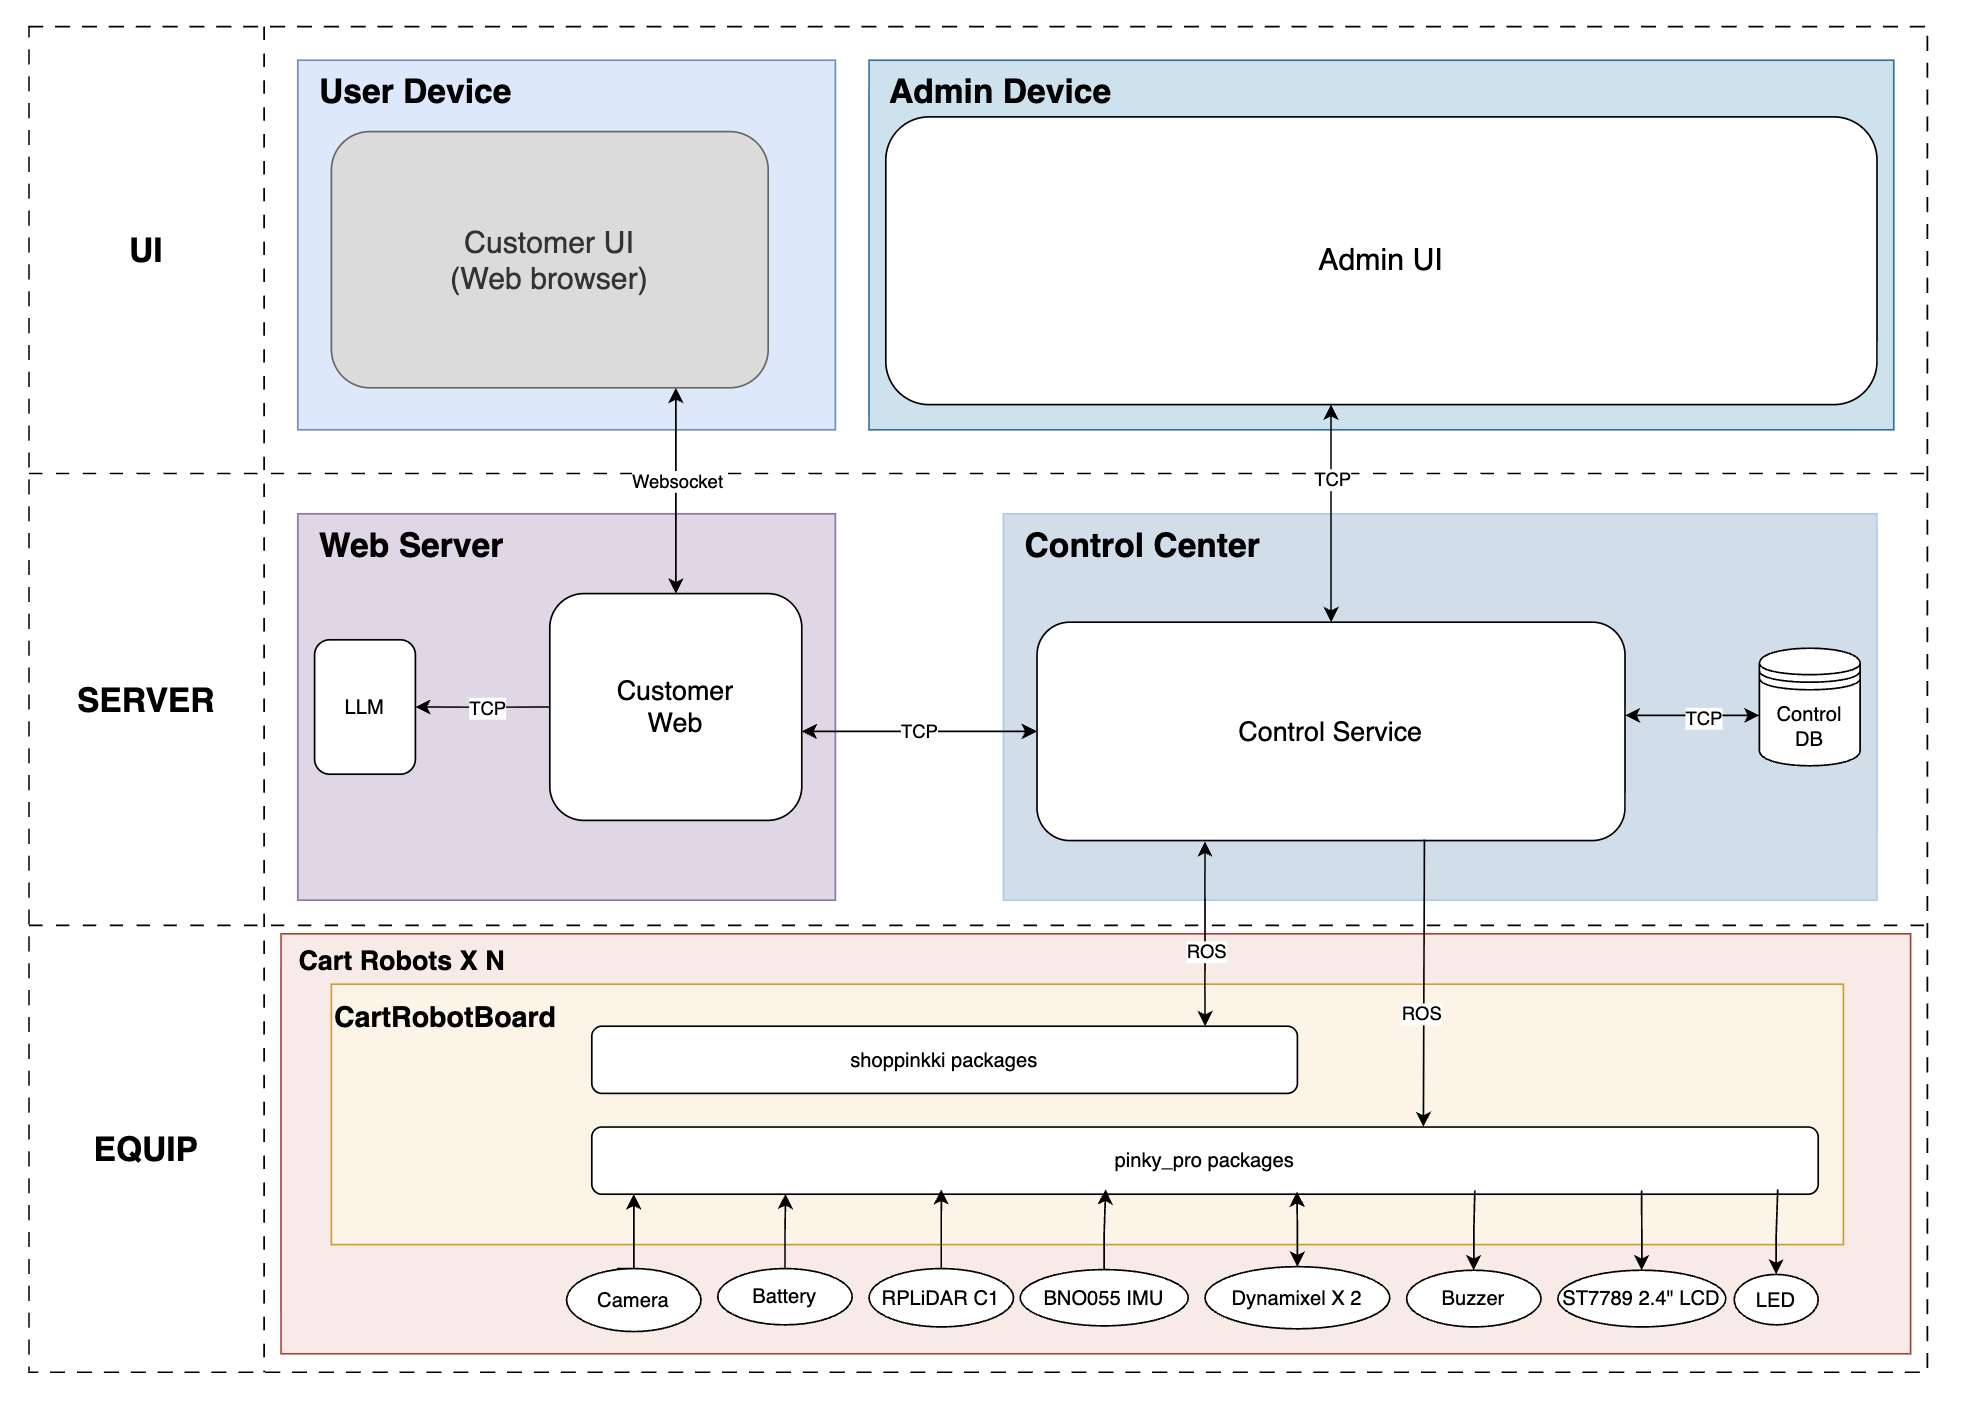
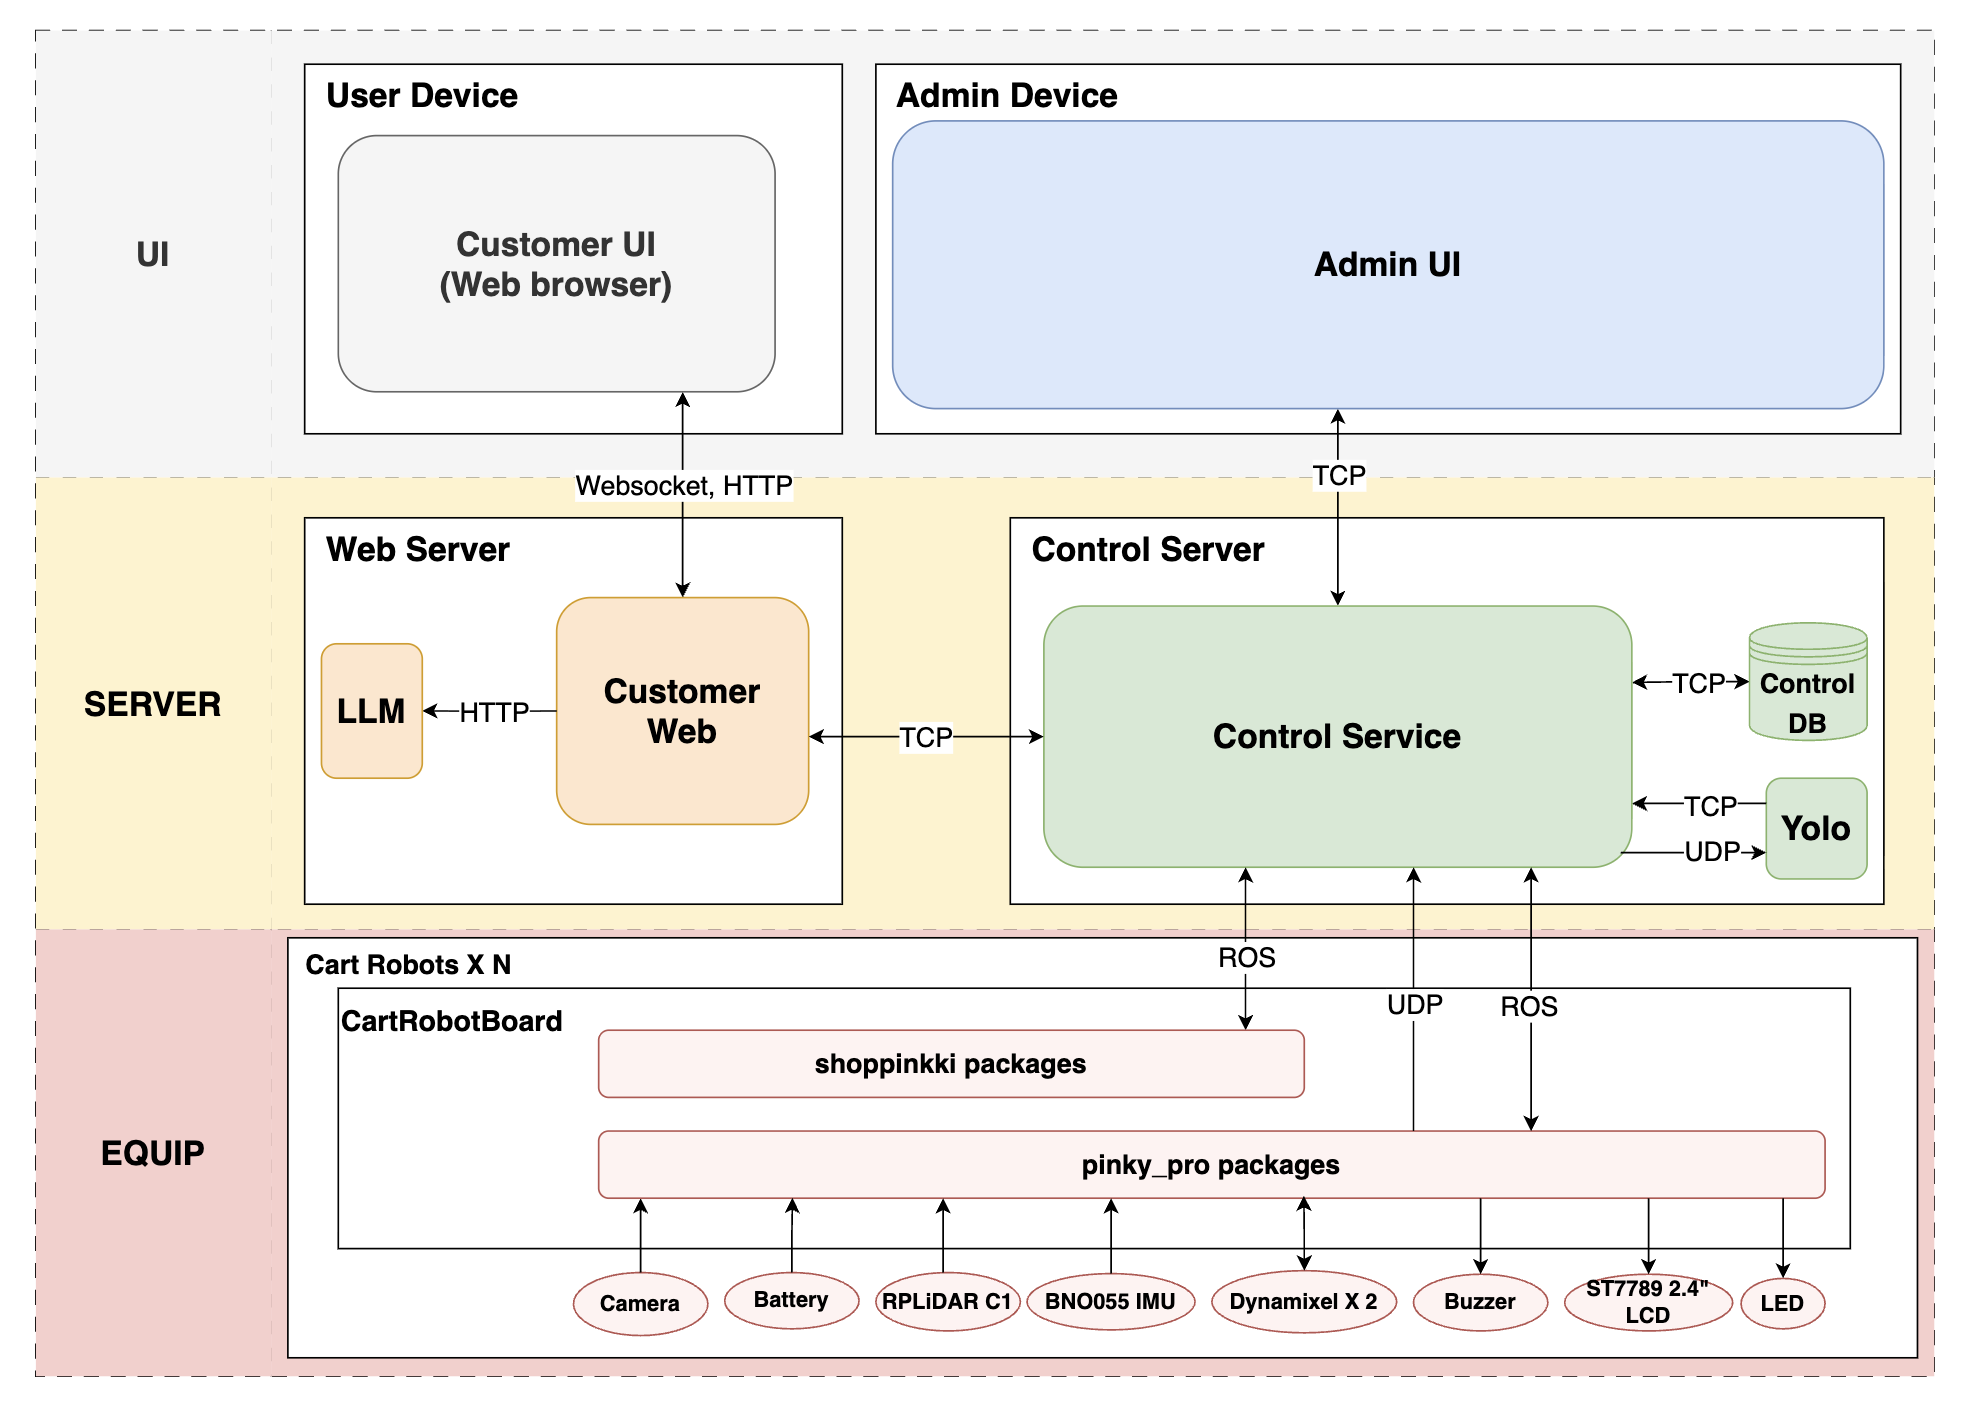
chore: readme update

diff --git a/README.md b/README.md
@@ -2,46 +2,71 @@
 
 > **에드인에듀 자율주행 프로젝트 2팀 | 팀명: 삥끼랩**
 
-Pinky Pro 로봇을 활용한 미니어처 마트 스마트 카트 데모 프로젝트.
-고객이 스마트폰으로 로봇에 등록하면, 쑈삥끼가 마트 안에서 고객을 인식하고 따라다니며 쇼핑을 보조합니다.
+Pinky Pro 로봇 기반 미니어처 마트 스마트 카트.
+고객을 인식하고 따라다니며, 상품을 검색·안내하고, 결제·복귀까지 자동으로 처리합니다.
 
 ---
 
-## 프로젝트 컨텍스트
+## 발표 자료 & 데모
 
-| 항목 | 내용 |
-|---|---|
-| 팀명 | 삥끼랩 |
-| 소속 | 에드인에듀 자율주행 프로젝트 2팀 |
-| 로봇 플랫폼 | Pinky Pro (by Pinklab), Raspberry Pi 5 (8GB) |
-| 보유 로봇 | 2대 — Pinky #54, Pinky #18 |
-| 데모 환경 | 1.4 × 1.8 m 미니어처 마트 |
-| ROS 버전 | ROS 2 Jazzy / Ubuntu 24.04 |
+📊 **발표 자료** — [shoppinkki-presentation.netlify.app](https://shoppinkki-presentation.netlify.app/)
+
+🎬 **최종 데모 영상**
+
+https://github.com/user-attachments/assets/d13a5720-cdfd-4cad-bbf7-157f4f9c5c15
 
 ---
 
-## 핵심 기능
+## 핵심 기능 7가지
 
-- **주인 추적** — 등록된 고객을 YOLO+ReID 또는 ArUco 마커로 인식해 졸졸 따라다님
-- **앱 연동** — 스마트폰 웹앱으로 모드 전환, 장바구니 관리, 매장 지도 확인
-- **물건 찾기** — 텍스트/STT로 상품을 검색하면 로봇이 해당 진열대로 안내
-- **도난 감지** — 매장 경계 이탈 시 알람 발생
-- **가상 결제** — 결제 구역 진입 시 장바구니 자동 결제 (데모용)
-- **관제 대시보드** — PyQt 앱으로 전체 로봇 상태·위치·알람 실시간 모니터링
+| # | 기능 | 짧은 설명 |
+|---|---|---|
+| 1 | **로그인** | LCD QR → 웹앱 접속 → 본인(데모는 인형) 등록 → IDLE→TRACKING |
+| 2 | **추종** | YOLOv8 → ByteTracker → ReID(512차) + HSV(48차) 매칭 → P/PI 제어 |
+| 3 | **상품 가이드** | 키워드 매핑 → LLM(Ollama Qwen2.5 3B)+pgvector → 구역 ID → Nav2 자율주행 |
+| 4 | **장바구니** | QR 스캔으로 상품 추가 / 목록 직접 삭제 / WebSocket 실시간 동기화 |
+| 5 | **대기** | TRACKING→WAITING 전환, 사용자 자유 이동, 시간 초과 시 자동 복귀 |
+| 6 | **결제** | 결제 구역 진입 시 자동 팝업, 미결제 시 출구 Keepout으로 차단 |
+| 7 | **복귀** | 빈 충전 슬롯 자동 탐색 → RETURNING → 도크 진입 → 세션 종료 |
 
 ---
 
 ## 시스템 구성
 
-```
-스마트폰 브라우저
-      ↕ WebSocket
-customer_web (Flask, 포트 8501)
-      ↕ TCP
-control_service + admin_app (ROS2, 서버 PC)
-      ↕ ROS DDS (ROS_DOMAIN_ID=14)
-shoppinkki_core (ROS2, Raspberry Pi 5)
-```
+![System Architecture](docs/system_architecture.png)
+
+## 하드웨어
+
+| 항목 | 사양 |
+|---|---|
+| 로봇 플랫폼 | Pinky Pro × 2대 (#54, #18) |
+| 컴퓨팅 | Raspberry Pi 5 (8GB) on each |
+| 센서 | RPLiDAR A1, Pi Camera, IMU |
+| 구동 | Dynamixel 2륜 + LCD + LED + 부저 |
+| 크기 | 110 × 150 × 142 mm |
+
+## 데모 환경
+
+![매장 구역 맵](https://images.prismic.io/woolimi/ad5Y051ZCF7ETL0w_shop-map2.png?auto=format,compress)
+
+- 미니어처 매장 188 × 141 cm — 동시 운용 로봇 2대
+- **상품 구역 8개**: 가전, 과자, 해산물, 육류, 채소, 음료, 베이커리, 즉석식품
+- **특수 구역 5개**: 화장실, 입구, 출구, 결제구역, 충전소(P1/P2)
+
+---
+
+## 기술 스택
+
+| 분야 | 기술 |
+|---|---|
+| OS / ROS | Ubuntu 24.04 / ROS 2 Jazzy |
+| 추종 비전 | YOLOv8 (300장 SAM3 라벨링), ByteTracker, torchreid (OSNet x0.25), HSV 히스토그램 |
+| 제어 | PI(선속도) + P(각속도, deadzone ±45px), Low-pass 스무딩 |
+| Nav | Nav2, SLAM Toolbox, 자체 Fleet Router (Dijkstra + lane lock) |
+| LLM | Ollama (Qwen 2.5 3B) + pgvector 자연어 검색 |
+| 통신 | ROS2 DDS (CycloneDDS), Flask, SocketIO, TCP/UDP |
+| DB | PostgreSQL 17 (Docker) |
+| UI | PyQt5 (Admin), Flask (Customer Web) |
 
 ---
 
@@ -62,3 +87,4 @@ shoppinkki_core (ROS2, Raspberry Pi 5)
 | [`docs/erd.md`](docs/erd.md) | DB 스키마 |
 | [`docs/state_machine.md`](docs/state_machine.md) | 로봇 State Machine |
 | [`cheatsheet.md`](cheatsheet.md) | SLAM·네비게이션 명령 모음 |
+
